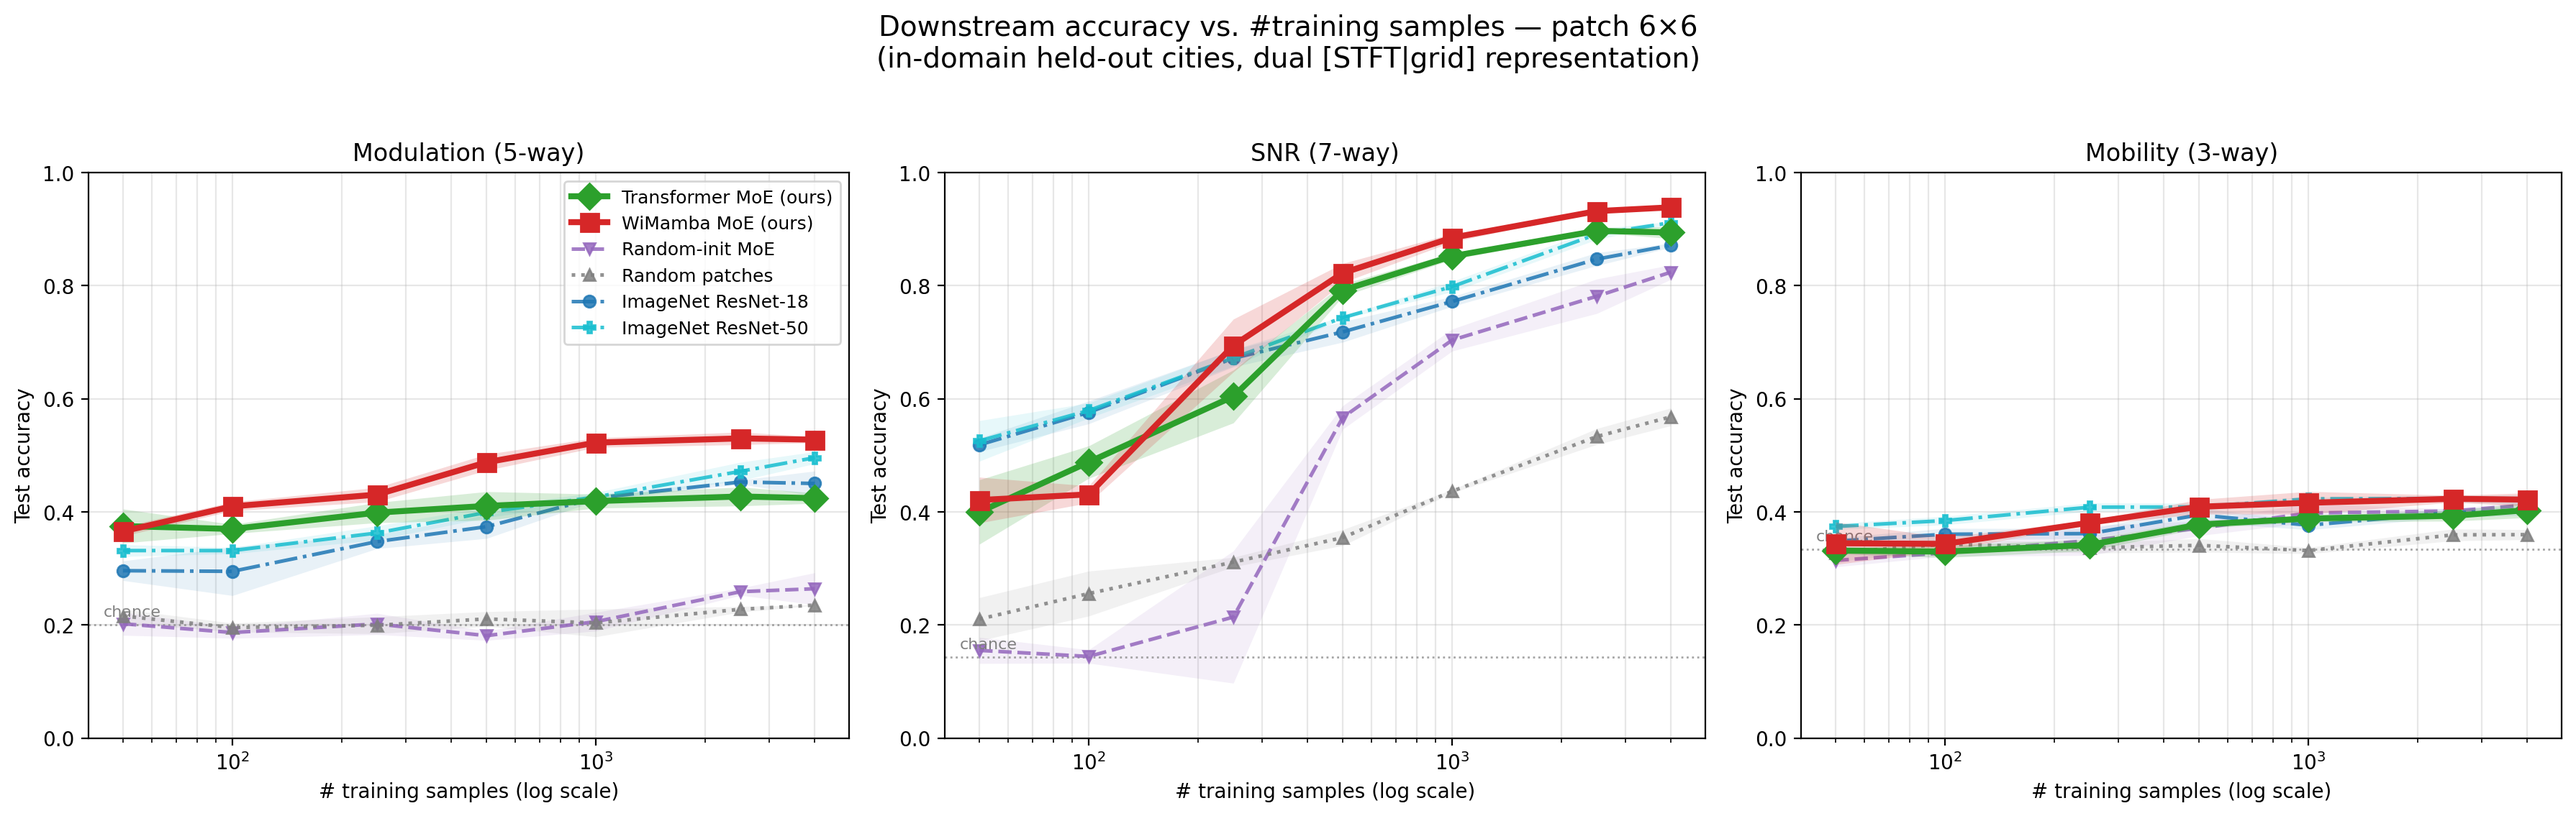
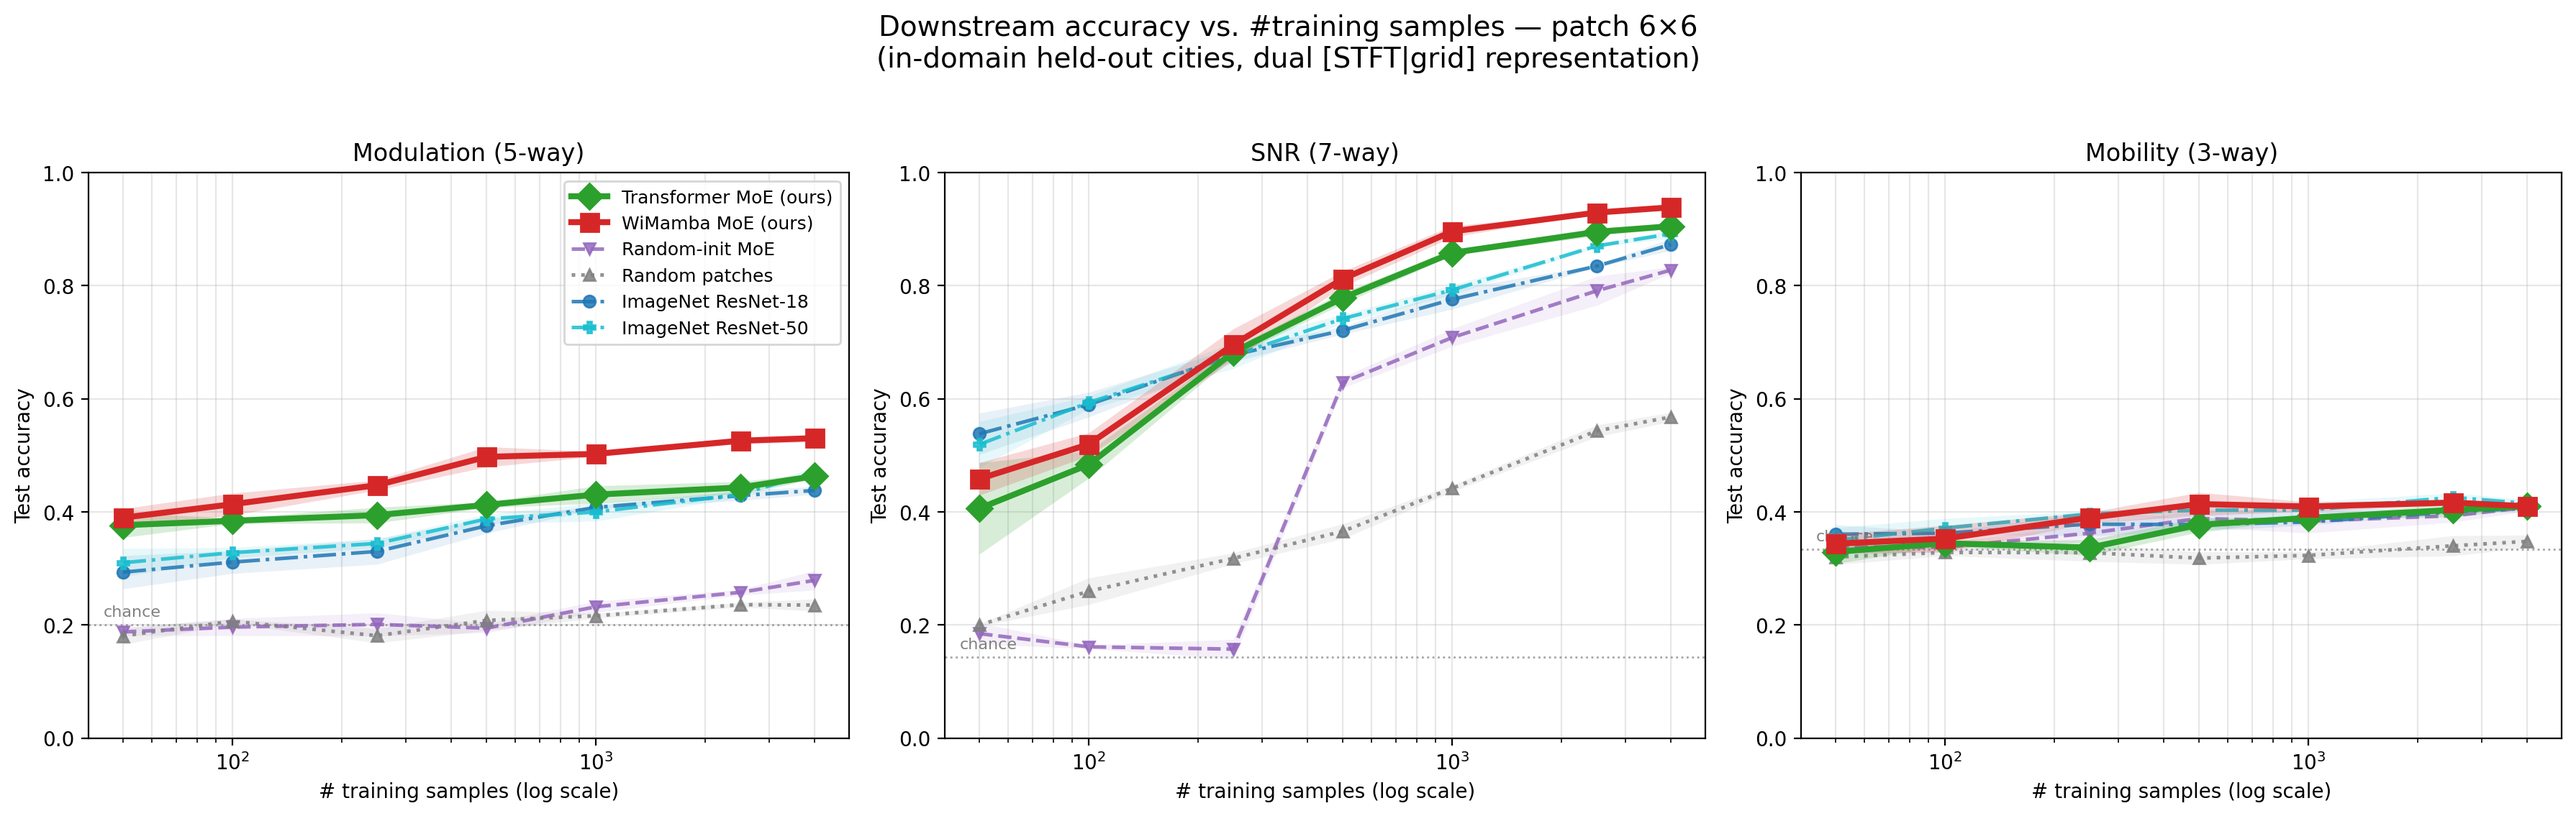
Stabilize low-n heads (best-of-3 restarts) + equal-width feature comparison
Two fixes for the sample-variation figures, prompted by the Transformer arm
dipping below the ResNet baselines:

(a) Head-init restarts. At tiny sample counts the linear head occasionally
    collapsed to a predict-one-class basin (e.g. Transformer SNR n=100 had a
    seed at 0.141 = chance, dragging the mean to 0.34). run_sweep now trains
    --head-restarts N heads per (task,count,seed) and keeps the best on val.
    With N=3 the collapses are gone: Transformer SNR n=100 0.34->0.47,
    n=500 0.73->0.81 with std 0.09->0.01.

(b) Equal-width features. --project-dim applies a fixed seeded JL random
    projection to any feature wider than the target, so ResNet-50 (2048-d) and
    ResNet-18 (512-d) feed the head at 256-d like our MoE arms — removing the
    dimensionality advantage from the comparison. Our 256-d arms are untouched.

Re-ran all arms x patches (3 seeds, 3 restarts, project-dim 256), zero
failures. Curves are now smooth with tight bands. The only remaining place a
baseline leads our arms is ResNet's small SNR head-start at n=50-100 — which
now survives equal-width projection, confirming it's a genuine "generic texture
features are a good few-shot prior for a noise-level task" effect, not an
artifact. Our arms lead SNR by n>=250 and dominate modulation at every n.

diff --git a/spectro/scripts/spectro_sweep.py b/spectro/scripts/spectro_sweep.py
@@ -44,15 +44,21 @@ def _subsample_count(n_total: int, count: int, seed: int) -> np.ndarray:
 
 def run_sweep(arm: str, features: torch.Tensor, data: SpectroData, out_dir: str, *,
               sample_counts=None, percentages=SAMPLE_PERCENTAGES, seeds=None, seed: int = 42,
-              device: str = "cuda", epochs_override: int | None = None) -> Dict:
+              head_restarts: int = 1, device: str = "cuda", epochs_override: int | None = None) -> Dict:
     """Sample-variation sweep for one arm; write aggregated_results.json + radar chart.
 
     Two x-axis modes: absolute ``sample_counts`` (preferred, spreads the few-shot regime) or legacy
     ``percentages``. Each x-point is averaged over ``seeds`` (each seed reseeds both the training
     subsample and the head init) so the curves report mean +/- std, not a single noisy draw. The
-    frozen feature matrix is fixed; only the head training varies across seeds."""
+    frozen feature matrix is fixed; only the head training varies across seeds.
+
+    ``head_restarts`` trains that many independently-initialized heads per (task, count, seed) and
+    keeps the one with the best VALIDATION score. At tiny sample counts the head occasionally lands
+    in a degenerate (predict-one-class) basin; restarts + val-selection reject those collapses, which
+    is what smooths the low-n end of the curves."""
     os.makedirs(out_dir, exist_ok=True)
     seeds = list(seeds) if seeds else [seed]
+    head_restarts = max(1, head_restarts)
     input_dim = features.shape[1]
     train_idx, val_idx, test_idx = data.train_idx, data.val_idx, data.test_idx
     use_counts = sample_counts is not None
@@ -79,15 +85,21 @@ def run_sweep(arm: str, features: torch.Tensor, data: SpectroData, out_dir: str,
                 sel = train_idx[sub]
                 n_samples = len(sel)
                 tr_feats, tr_y = features[sel], y[sel]
-                torch.manual_seed(sd); np.random.seed(sd)
-                head = ClassificationHead(input_dim, n_classes)
-                _, _, score, _, _ = finetune(
-                    head, tr_feats, tr_y, val_feats, val_y, test_feats, test_y,
-                    score_fn=_accuracy, epochs=cfg['epochs'], lr=cfg['lr'],
-                    weight_decay=cfg['weight_decay'], batch_size=cfg['batch_size'],
-                    patience=cfg['patience'], scheduler_step=cfg['scheduler_step'],
-                    scheduler_gamma=cfg['scheduler_gamma'], device=device)
-                scores.append(score)
+                # best-of-N heads by val score: reject degenerate (collapsed-to-chance) inits at low n
+                best_val, best_score = -1.0, 0.0
+                for r in range(head_restarts):
+                    torch.manual_seed(sd * 1000 + r); np.random.seed(sd * 1000 + r)
+                    head = ClassificationHead(input_dim, n_classes)
+                    _, history, score, _, _ = finetune(
+                        head, tr_feats, tr_y, val_feats, val_y, test_feats, test_y,
+                        score_fn=_accuracy, epochs=cfg['epochs'], lr=cfg['lr'],
+                        weight_decay=cfg['weight_decay'], batch_size=cfg['batch_size'],
+                        patience=cfg['patience'], scheduler_step=cfg['scheduler_step'],
+                        scheduler_gamma=cfg['scheduler_gamma'], device=device)
+                    v = max(history['val_score']) if history['val_score'] else -1.0
+                    if v > best_val:
+                        best_val, best_score = v, score
+                scores.append(best_score)
 
             mean_s, std_s = float(np.mean(scores)), float(np.std(scores))
             key = str(n_samples) if use_counts else str(int(x * 100))
@@ -102,6 +114,7 @@ def run_sweep(arm: str, features: torch.Tensor, data: SpectroData, out_dir: str,
     aggregated = {
         'experiment_config': {
             'arm': arm, 'tasks': list(TASKS.keys()), 'feature_dim': input_dim, 'seeds': seeds,
+            'head_restarts': head_restarts,
             'x_axis': 'sample_counts' if use_counts else 'percentages',
             'sample_counts': list(sample_counts) if use_counts else None,
             'sample_percentages': None if use_counts else [int(p * 100) for p in percentages],

diff --git a/spectro/scripts/spectro_train_heads.py b/spectro/scripts/spectro_train_heads.py
@@ -39,6 +39,18 @@ _SUBMISSIONS = os.path.join(_REPO_ROOT, 'spectro', 'outputs', 'submissions')
 _MOE_ARMS = {'mamba': 'mamba', 'transformer_synth': 'transformer'}
 
 
+def _random_project(features: torch.Tensor, out_dim: int, seed: int = 0) -> torch.Tensor:
+    """Fixed seeded Gaussian random projection -> (N, out_dim). Only shrinks features WIDER than
+    out_dim; returns the input unchanged otherwise. Scaled by 1/sqrt(out_dim) so it approximately
+    preserves pairwise distances (Johnson-Lindenstrauss), giving every arm an equal-width feature
+    for a fair head comparison (e.g. ResNet-50 2048-d / ResNet-18 512-d -> 256-d like our MoE arms)."""
+    if features.shape[1] <= out_dim:
+        return features
+    g = torch.Generator().manual_seed(seed)
+    W = torch.randn(features.shape[1], out_dim, generator=g) / (out_dim ** 0.5)
+    return features.float() @ W
+
+
 def _raw_features(data, patch=4) -> torch.Tensor:
     """Mean-pooled raw patches -> (N, patch*patch) lower-bound features."""
     patches = spectrogram_patchify(data.spectrograms, patch=patch, normalize=True)  # (N,n_patches,E)
@@ -153,6 +165,12 @@ def main():
     ap.add_argument('--seeds', type=int, nargs='+', default=None,
                     help='average each sample point over these head-training seeds (e.g. 42 43 44) '
                          'to smooth curve noise. Feature extraction is unaffected (single data split).')
+    ap.add_argument('--head-restarts', type=int, default=1,
+                    help='train this many head inits per (task,count,seed), keep best-on-val. '
+                         '>1 rejects degenerate collapsed-to-chance heads at low sample counts.')
+    ap.add_argument('--project-dim', type=int, default=None,
+                    help='random-project features WIDER than this down to it (fair equal-width head '
+                         'comparison; e.g. 256 shrinks ResNet 512/2048-d, leaves our 256-d arms as-is).')
     args = ap.parse_args()
 
     device = 'cuda' if torch.cuda.is_available() else 'cpu'
@@ -179,13 +197,19 @@ def main():
                                  weights_suffix=args.weights_suffix)
     else:
         features = _raw_features(data, patch=args.patch)
+    if args.project_dim:
+        pre = features.shape[1]
+        features = _random_project(features, args.project_dim, seed=args.seed)
+        if features.shape[1] != pre:
+            print(f"random-projected features {pre} -> {features.shape[1]} (equal-width head comparison)")
     print(f"features: {tuple(features.shape)}  finite={bool(torch.isfinite(features).all())}")
 
     # keep in-domain (_heldout) and representation (_grid) results separate from the demo/STFT sweeps
     tag = ('_heldout' if args.synth_dir else '') + (f'_{args.weights_suffix}' if args.weights_suffix else '')
     out_dir = os.path.join(_SUBMISSIONS, f'submission_spectro_{args.arm}_p{args.patch}{tag}')
     run_sweep(args.arm, features, data, out_dir, seed=args.seed, seeds=args.seeds,
-              sample_counts=args.sample_counts, device=device, epochs_override=args.epochs)
+              sample_counts=args.sample_counts, head_restarts=args.head_restarts,
+              device=device, epochs_override=args.epochs)
     print(f"\nDone. Results -> {out_dir}/aggregated_results.json")
 
 
